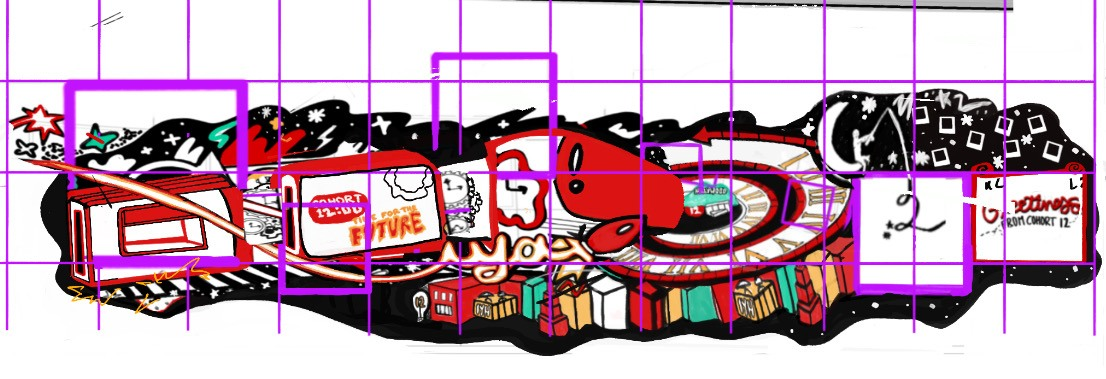
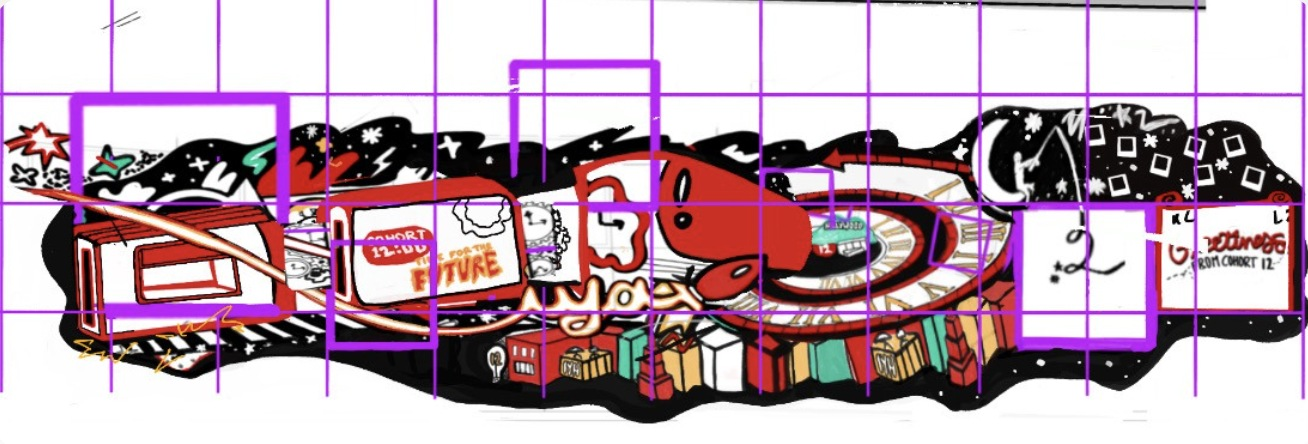
Update mural process images

diff --git a/components/MuralCaseStudy.tsx b/components/MuralCaseStudy.tsx
@@ -51,14 +51,14 @@ export function MuralCaseStudy({ onClose }: { onClose: () => void }) {
             <p className="mural-eyebrow">01 / CONCEPT</p>
             <h3>The time is NOW</h3>
             <p>The concept combines time and space through a train traveling toward the future. Clocks, orbital lines, and space imagery connect the journey to the idea that our time to create begins now. An isometric map at the bottom anchors the composition in cultural landmarks representing our roots, while open-ended pathways leave room for where we go next.</p>
-            <figure><img src={`${assets}/sketch.jpg`} alt="Early line drawing exploring the train, clocks, space, and isometric landmarks." loading="lazy" /><figcaption>Early line drawing exploring the train, clocks, space, and isometric landmarks.</figcaption></figure>
-            <figure><img src={`${assets}/color-study.jpg`} alt="Color study developing the time-and-space composition." loading="lazy" /><figcaption>Color study developing the time-and-space composition.</figcaption></figure>
+            <figure><img src={`${assets}/sketch.jpg`} alt="Color concept exploring the train, clocks, space, and isometric landmarks." loading="lazy" /><figcaption>Color concept exploring the train, clocks, space, and isometric landmarks.</figcaption></figure>
+            <figure><img src={`${assets}/color-study.jpg`} alt="Line drawing developing the time-and-space composition." loading="lazy" /><figcaption>Line drawing developing the time-and-space composition.</figcaption></figure>
           </section>
           <section>
             <p className="mural-eyebrow">02 / VISUAL DEVELOPMENT</p>
             <h3>Build one shared visual language</h3>
             <p>Concept boards explore how the train, lettering, cultural landmarks, and student characters can work as one composition. Color studies and layout iterations develop the relationship between the mural’s larger narrative and its smaller personal details.</p>
-            <figure><img src={`${assets}/concept-board.jpg`} alt="Concept board exploring palette, composition, and architectural constraints." loading="lazy" /><figcaption>Concept board exploring palette, composition, and architectural constraints.</figcaption></figure>
+            <figure><img src={`${assets}/concept-board.jpg`} alt="Layout iteration exploring the composition around the wall’s openings." loading="lazy" /><figcaption>Layout iteration exploring the composition around the wall’s openings.</figcaption></figure>
             <figure><img src={`${assets}/wall-grid.jpg`} alt="Gridded layout mapping the design to the wall’s proportions and openings." loading="lazy" /><figcaption>Gridded layout mapping the design to the wall’s proportions and openings.</figcaption></figure>
           </section>
           <section>
